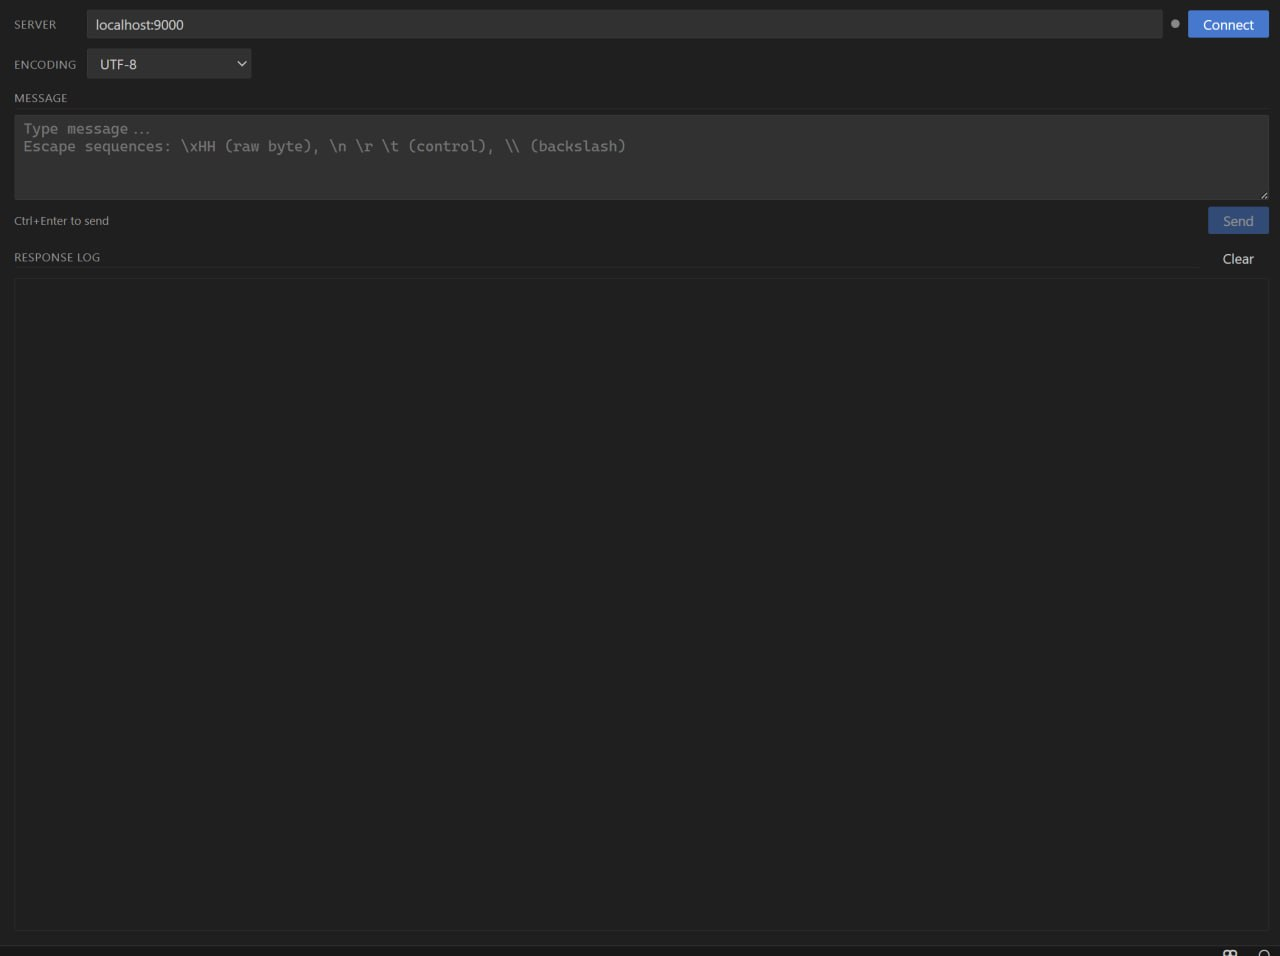
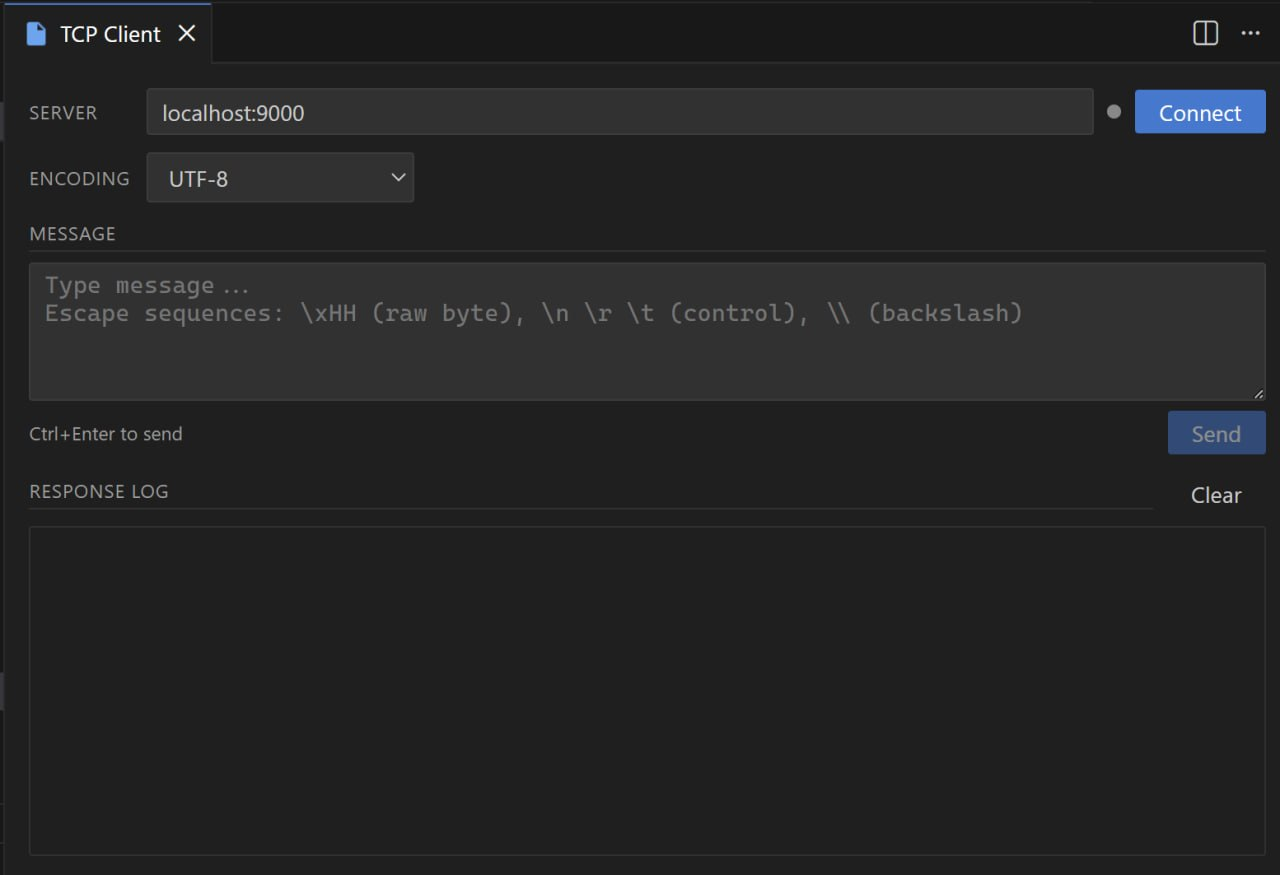
docs: update README with new screenshot and cleaner user-facing content

diff --git a/README.md b/README.md
@@ -2,7 +2,7 @@
 
 **Talk to any TCP server without leaving your editor.**
 
-TCP Client brings a lightweight, full-featured TCP socket client straight into VS Code — no terminal, no external tools, no context switching. Connect to a server, send raw or binary messages, and watch responses in a clean, timestamped log. Perfect for debugging network services, testing custom protocols, or poking at IoT devices.
+TCP Client brings a full-featured TCP socket client straight into VS Code — no terminal, no external tools, no context switching. Connect to any server, send text or binary messages, and watch responses appear in a clean, timestamped log.
 
 ![TCP Client in action](https://github.com/ruimgoncalves/vscode-tcp-client/raw/main/screenshot.png)
 
@@ -10,26 +10,21 @@ TCP Client brings a lightweight, full-featured TCP socket client straight into V
 
 ## Features
 
-### 🔌 Connect to Any TCP Server
-Just enter `host:port` and hit Connect. The status dot tells you everything at a glance — grey when idle, amber while connecting, green when live.
+**🔌 Connect to any TCP server**
+Enter `host:port`, hit Connect. A status dot shows connection state at a glance — grey when idle, amber while connecting, green when connected.
 
-### ⌨ Send Any Message
-- Plain text in **UTF-8, ASCII, Latin-1, or UTF-16 LE**
-- **Binary support** via escape sequences (`\xFF`, `\x00`, `\n`, `\r`, `\t`, `\\`)
-- Press **Ctrl+Enter** to send without touching the mouse
+**⌨ Send any message**
+Plain text in UTF-8, ASCII, Latin-1, or UTF-16 LE. Binary data via escape sequences: `\xFF`, `\x00`, `\n`, `\r`, `\t`, `\\`. Press **Ctrl+Enter** to send.
 
-### 📋 Response Log
-Every response is logged with a **timestamp** and **response time in milliseconds** — useful for benchmarking or spotting timeouts.
+**📋 Timestamped response log**
+Every response is logged with a precise timestamp and round-trip response time in milliseconds.
 
-### 💾 Remembers Your State
-Server address, encoding, and draft message are **automatically saved** between sessions. Close the panel, reopen VS Code — your context is still there.
+**💾 Persistent state**
+Server address, encoding, and draft message survive panel close/reopen and VS Code restarts.
 
 ---
 
 ## Install
-
-### From the VS Code Marketplace *(coming soon)*
-Search for **"TCP Client"** in the Extensions view and click Install.
 
 ### From a `.vsix` package
 Download the latest `.vsix` from the [Releases](https://github.com/ruimgoncalves/vscode-tcp-client/releases) page, then:
@@ -48,7 +43,7 @@ npm run compile
 
 ## How to Use
 
-1. Open the Command Palette (`Ctrl+Shift+P` / `Cmd+Shift+P`) → **TCP Client: Open Panel**
+1. Open the Command Palette → **TCP Client: Open Panel**
 2. Enter your server address (e.g. `localhost:9000`) and click **Connect**
 3. Type a message — use escape sequences for binary data
 4. Press **Send** or **Ctrl+Enter**
@@ -69,7 +64,7 @@ npm run compile
 
 ## Use Cases
 
-- **Debug network services** — test your API server or database directly
+- **Debug network services** — test API servers, databases, or custom daemons directly from VS Code
 - **IoT & embedded** — send crafted binary packets to devices
 - **Protocol exploration** — experiment with custom or undocumented protocols
 - **Performance testing** — measure round-trip latency with built-in response timers
